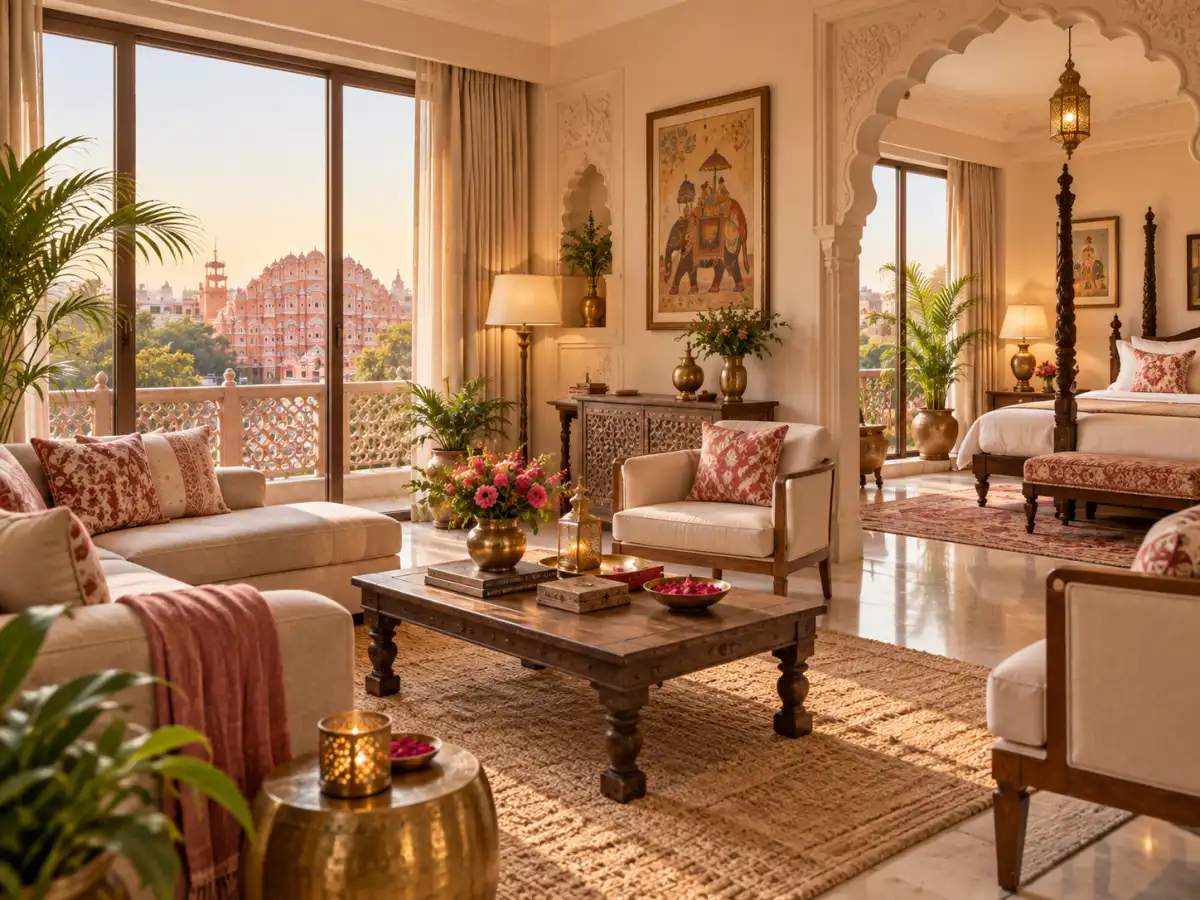
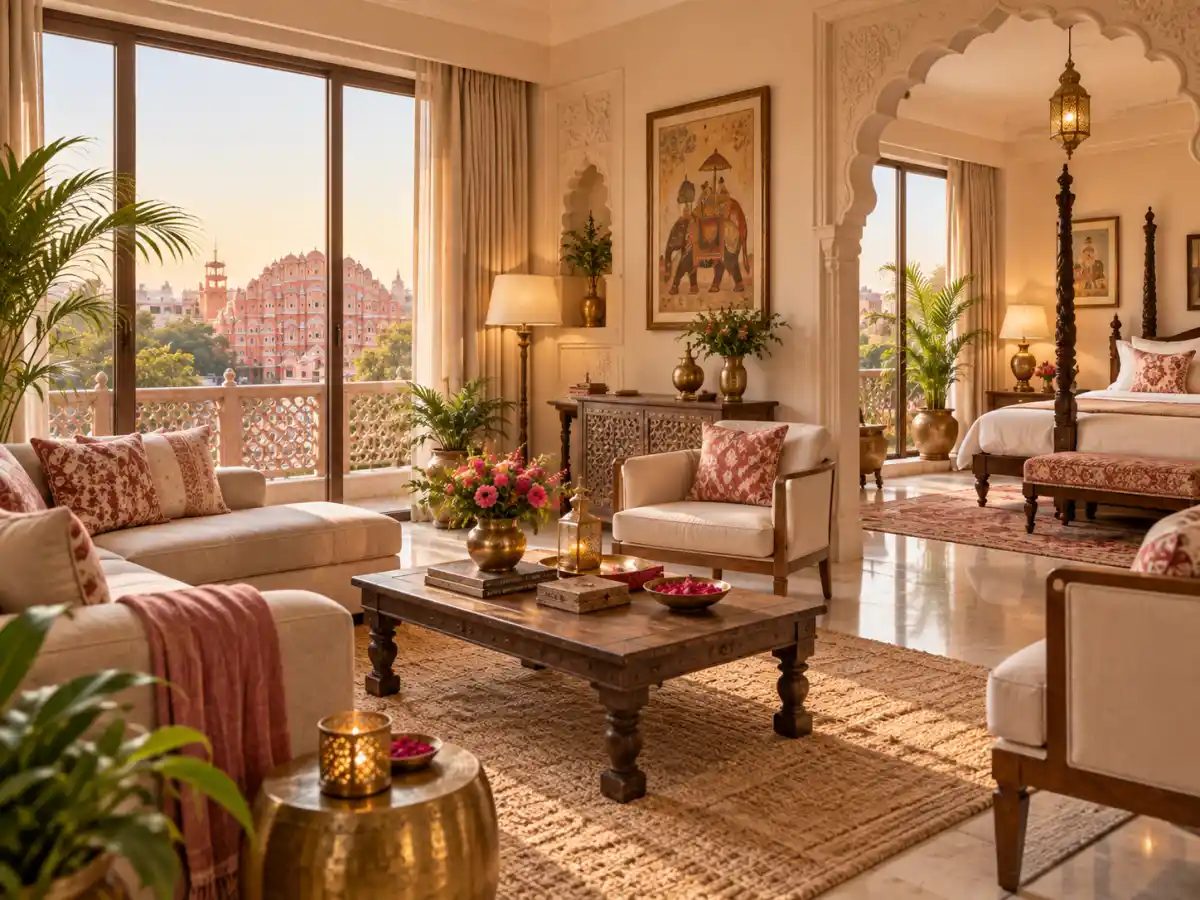
CLS/SI/LCP pass: fix Owl Carousel collapse, aspect-ratio for host photos, inline critical CSS
CLS (was 2/25):
- Root cause: owl.carousel.min.css ships .owl-carousel{display:none} and
  only reveals it via .owl-loaded{display:block}. Every owl-carousel on
  the site (hero, related listings, gallery, about slider) rendered at
  0 height then jumped to full height the instant Owl's JS finished -
  the single biggest layout shift on every page. Fixed generically in
  resources/scss/components/_owl-cls-fix.scss: show slide 1 only, at its
  natural height, via :not(.owl-loaded) - stops applying the moment Owl
  adds that class, handing off to Owl's own positioning with no second
  jump. Hero gets an explicit min-height floor + charcoal background
  (matches the design) so there's no white flash before the photo decodes.
- Audited every dynamic (host-uploaded, arbitrary-ratio) image against
  its actual CSS: most already had a fixed height or were position:absolute
  inside a fixed-height section (already fully CLS-safe, verified by
  reading the compiled rules rather than assuming). Two real gaps found
  and fixed with aspect-ratio: the browse-grid card photo
  (apartment/v4.blade.php, no height was ever set on its container) and
  the same "related listings" card on mobile/tablet (single/index5.blade.php,
  where the container switches from position:absolute to normal flow
  below 992px). A leftover dead `data-bs-spy="scroll"` wrapper targeting a
  nonexistent nav was also removed while auditing that section.
[…]

diff --git a/resources/scss/critical.scss b/resources/scss/critical.scss
@@ -1,0 +1,30 @@
+// Inlined into <head> via Vite::content() - see resources/views/layouts/base.blade.php.
+//
+// This is NOT the full critical-CSS-extraction technique (rendering the
+// page and capturing every rule that touches the above-fold viewport).
+// Most of the actual above-fold styling here is already inline per-page
+// (navbar.blade.php and index.blade.php both carry their own <style>
+// blocks with real colours/sizing, self-contained on purpose - see their
+// own comments). What those per-page blocks assume is already in place is
+// the STRUCTURAL foundation under them: the CSS reset and the grid system
+// (.container/.row/.col-*) that both the navbar and the hero are built on.
+// Without it the page is readable but visibly wrong (unstyled headings,
+// stacked/overlapping columns) for the ~1 round-trip until the async main
+// bundle (see base.blade.php) arrives. This inlines exactly that
+// foundation, nothing page-specific - safe to reuse on every page.
+//
+// Deliberately duplicated with resources/scss/vendor/_bootstrap-custom.scss
+// rather than factored out: this file must compile to a small STANDALONE
+// stylesheet Vite::content() can inline whole, while main.scss's copy stays
+// part of the one bundle every page still loads (async) as its real,
+// long-term-cached stylesheet. Keeping the async bundle also-correct
+// without depending on the inline copy having succeeded is the point -
+// if a browser doesn't run the onload swap (see base.blade.php), the
+// noscript fallback stylesheet is still complete on its own.
+@use './vendor/bootstrap-custom';
+
+body {
+    margin: 0;
+    font-family: 'Poppins', sans-serif;
+    background-color: #fff;
+}

diff --git a/resources/scss/components/_owl-cls-fix.scss b/resources/scss/components/_owl-cls-fix.scss
@@ -1,0 +1,29 @@
+// CLS fix for every Owl Carousel instance on the site (hero, similar
+// listings, property gallery, about section - see resources/js/main.js
+// for the full list of the 4 real ones).
+//
+// owl.carousel.min.css ships `.owl-carousel{display:none}` and only
+// reveals it via `.owl-loaded{display:block}` once Owl's JS has run and
+// built the real slide structure. Until then the whole carousel renders
+// at 0 height, then jumps to its full height the instant JS finishes -
+// on a slow mobile connection/CPU that can be a very late, very large
+// shift. `:not(.owl-loaded)` scopes this to only the pre-init window;
+// the moment Owl adds that class these rules stop applying and Owl's own
+// transform-based slide positioning takes over untouched.
+//
+// Specificity note: `.owl-carousel:not(.owl-loaded)` is a class selector
+// plus a :not() whose argument is also a class selector, so this is
+// (0,2,0) - it beats owl.carousel.min.css's own `.owl-carousel{display:
+// none}` at (0,1,0) regardless of import order, but @import-ing this
+// after owl.carousel.min.css in main.scss keeps source order matching
+// specificity for anyone reading the compiled output later.
+.owl-carousel:not(.owl-loaded) {
+    display: block;
+
+    // Show only the first slide, at its natural unwrapped height, instead
+    // of every slide stacking in normal flow (which would itself be a
+    // second, larger shift once Owl trims it back down to one slide).
+    > *:not(:first-child) {
+        display: none;
+    }
+}

diff --git a/vite.config.js b/vite.config.js
@@ -7,6 +7,8 @@ export default defineConfig({
             input: [
                 //css
                 'resources/scss/main.scss',
+                // Inlined in <head> via Vite::content() - see base.blade.php.
+                'resources/scss/critical.scss',
 
 
                 //js

diff --git a/resources/scss/main.scss b/resources/scss/main.scss
@@ -14,6 +14,7 @@
 @import './components/sidebar';
 @import './components/mobile';
 @import '/node_modules/owl.carousel/dist/assets/owl.carousel.min.css';
+@import './components/owl-cls-fix';
 @import '/node_modules/aos/dist/aos.css';
 
 

diff --git a/resources/views/layouts/base.blade.php b/resources/views/layouts/base.blade.php
@@ -3,6 +3,16 @@
 
 <head>
 
+    {{--
+      Critical CSS, inlined. Covers the CSS reset + grid system the rest of
+      the page is built on - see resources/scss/critical.scss for what it
+      does and doesn't include and why. Kept before everything else in
+      <head>, including the preload stack below, so the browser has enough
+      to render a structurally-correct page the instant body parsing
+      starts, without waiting on the external stylesheet below.
+    --}}
+    <style>{!! \Illuminate\Support\Facades\Vite::content('resources/scss/critical.scss') !!}</style>
+
     {{-- Pushed by pages with an LCP image (e.g. the homepage hero) - kept
          first in <head> so the browser's preload scanner sees it before
          anything else while it is still parsing the raw HTML. --}}
@@ -10,7 +20,21 @@
 
     @include('layouts.partials.title-meta')
 
-    <!--===== CSS LINK =======-->
+    {{--
+      Main stylesheet - loaded synchronously, NOT via the async preload+
+      onload swap. That was tried and deliberately reverted: this template
+      has several hundred fixed-height rules (property/gallery/service
+      sections, card image boxes) that only exist in this bundle, not in
+      the critical CSS above, and every one of them is a live CLS
+      protection - see resources/scss/critical.scss's own comment. Loading
+      it async would let those sections render at their unstyled auto
+      height first and then snap to their real fixed height the moment
+      this arrives, which is a bigger layout shift than the ~1 round-trip
+      of render-blocking time saved by not doing this. CLS is the metric
+      actually in trouble here; Speed Index is not worth regressing it
+      for. @vite() already emits its own <link rel=preload as=style> ahead
+      of the stylesheet link, so this is not literally un-optimized either.
+    --}}
     @vite(['resources/scss/main.scss'])
 
     @yield('css')

diff --git a/resources/views/apartment/v4.blade.php b/resources/views/apartment/v4.blade.php
@@ -408,6 +408,25 @@
       border-color: #E07A5F;
       background: rgba(224, 122, 95, .16);
     }
+
+    /* CLS fix: the template's own .img1 img rule is `height:100%` with no
+       height set anywhere on .img1 itself, so the card's photo area had no
+       reserved size until each card's own image loaded - host photos are
+       arbitrary aspect ratios, so every card would also jump a different
+       amount, un-aligning the grid row by row as images arrived. A fixed
+       aspect-ratio reserves the exact same box up front regardless of the
+       source photo's real dimensions, and object-fit:cover (already set)
+       crops to fill it. 3:2 matches the two actual demo cover photos most
+       closely (1320x880 is exactly 3:2). */
+    .apartment-inner2-section-area .apartment-boxarea .img1 {
+      aspect-ratio: 3 / 2;
+    }
+
+    .apartment-inner2-section-area .apartment-boxarea .img1 img {
+      height: 100%;
+      width: 100%;
+      object-fit: cover;
+    }
   </style>
   <!-- ===== HERO AREA STARTS ======= -->
   <div class="inner-main-hero-area">

diff --git a/resources/views/single/index5.blade.php b/resources/views/single/index5.blade.php
@@ -316,6 +316,26 @@
         height: 300px;
       }
     }
+
+    /* CLS fix: .apartment5-area pins .owl-stage-outer to position:absolute
+       on desktop (so .img1's own height doesn't affect layout there), but
+       switches it to position:relative on tablet/mobile - and .img1 itself
+       has no height set anywhere, only `img{height:100%}`. Below 992px
+       these related-listing cards had no reserved space until each one's
+       own (host-uploaded, arbitrary-ratio) photo loaded. Same fix as the
+       browse grid: fixed aspect-ratio instead of a guessed pixel height,
+       since these render at a different column width than the browse page. */
+    @media (max-width: 991.98px) {
+      .apartment5-area .arpart-slider-area .apartment-boxarea .img1 {
+        aspect-ratio: 3 / 2;
+      }
+
+      .apartment5-area .arpart-slider-area .apartment-boxarea .img1 img {
+        height: 100%;
+        width: 100%;
+        object-fit: cover;
+      }
+    }
   </style>
 
   <!-- ===== HERO AREA STARTS ======= -->

diff --git a/resources/views/index.blade.php b/resources/views/index.blade.php
@@ -528,6 +528,25 @@
         text-align: center;
       }
     }
+    /* CLS floor for the hero carousel specifically - the generic
+       "show only slide 1 before Owl loads" fix lives in
+       resources/scss/components/_owl-cls-fix.scss and applies to every
+       owl-carousel on the site. This is just a minimum height for the
+       rare case slide 1's own content renders unexpectedly short (e.g.
+       before its webp decodes), and the charcoal background so there is
+       no white flash while the hero photo is still decoding instead of a
+       bright flash-then-darken. */
+    .header-carousel-area3.owl-carousel {
+      min-height: 600px;
+    }
+    .header-carousel-area3.owl-carousel .main-hero-area {
+      background-color: #2F3E46;
+    }
+    @media (max-width: 767.98px) {
+      .header-carousel-area3.owl-carousel {
+        min-height: 300px;
+      }
+    }
   </style>
 
   <!-- ===== HERO AREA STARTS ======= -->

diff --git a/resources/views/layouts/partials/title-meta.blade.php b/resources/views/layouts/partials/title-meta.blade.php
@@ -66,6 +66,8 @@
 <meta name="twitter:description" content="{!! $jbDescription !!}">
 <meta name="twitter:image" content="{!! $jbImage !!}">
 
+<link rel="preconnect" href="https://fonts.googleapis.com">
+<link rel="preconnect" href="https://fonts.gstatic.com" crossorigin>
 <link href="https://fonts.googleapis.com/css2?family=Poppins:wght@300;400;500;600;700&display=swap" rel="stylesheet">
 
 <!--=====FAB ICON=======-->
